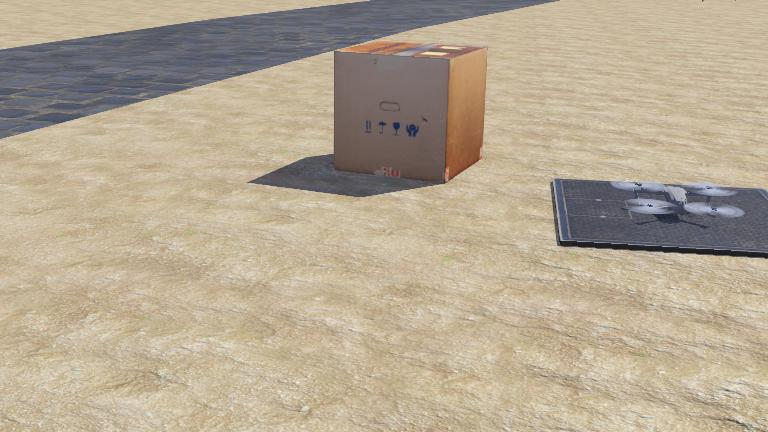
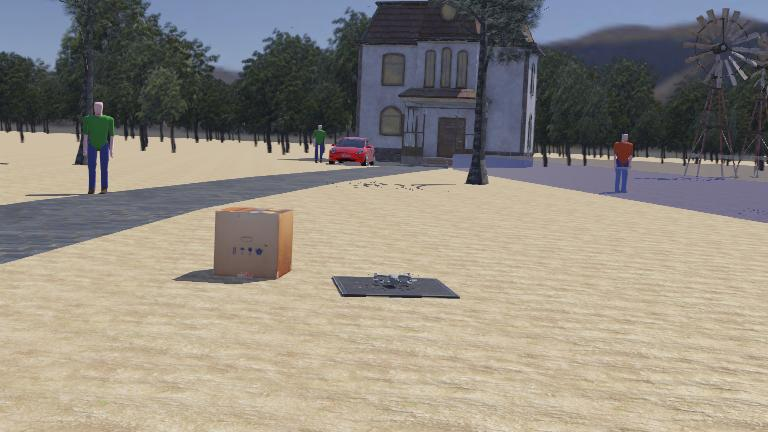
feat(core): Add object detections for users and cars

diff --git a/backend/app/main.py b/backend/app/main.py
@@ -7,6 +7,8 @@ import io
 import json
 import os
 import time
+import cv2
+import numpy as np
 
 from dotenv import load_dotenv
 from typing import Any, Dict, Optional, Set
@@ -25,6 +27,23 @@ try:
     AIORTC_AVAILABLE = True
 except Exception:
     AIORTC_AVAILABLE = False
+
+from pathlib import Path
+from ultralytics import YOLO
+
+# 1. Dynamically get the absolute folder path of app/main.py
+SCRIPT_DIR = Path(__file__).resolve().parent
+
+MODEL_PATH = SCRIPT_DIR / "yolo26n.pt"
+
+
+# Load YOLO globally once when FastAPI initializes (using Nano for real-time speed)
+try:
+    yolo_model = YOLO(str(MODEL_PATH))
+except Exception as e:
+    print(f"Warning: Could not load YOLO model: {e}")
+    yolo_model = None
+
 
 load_dotenv()
 
@@ -229,6 +248,43 @@ async def drone_controller(ws: WebSocket) -> None:
                     frame = base64.b64decode(frame_b64)
                 except Exception:
                     continue
+                
+                # --- LIVE INJECT YOLO PROCESSING ---
+                if yolo_model is not None:
+                    try:
+                        # 1. Convert JPEG byte string into a NumPy Matrix (OpenCV format)
+                        nparr = np.frombuffer(frame, np.uint8)
+                        cv_img = cv2.imdecode(nparr, cv2.IMREAD_COLOR)
+
+                        if cv_img is not None:
+                            # 2. Run inference (classes=0 filters for pedestrians only)
+                            results = yolo_model.predict(source=cv_img, classes=[0,2], conf=0.45, verbose=False)
+                            
+                            # 3. Draw bounding boxes over the image matrix
+                            for result in results:
+                                names = result.names
+                                for box in result.boxes:
+                                    x1, y1, x2, y2 = map(int, box.xyxy[0].tolist())
+                                    conf = float(box.conf)
+                                    cls_id = int(box.cls.item())
+                                    label = names[cls_id].capitalize() # e.g., "Person", "Car", "Truck"
+                                    
+                                    # Set box color based on classification (Green for People, Blue for Vehicles)
+                                    box_color = (0, 255, 0) if cls_id == 0 else (255, 100, 0)
+                                    
+                                    # Draw bounding box and the detected type label
+                                    cv2.rectangle(cv_img, (x1, y1), (x2, y2), box_color, 2)
+                                    cv2.putText(cv_img, f"{label} {conf:.2f}", (x1, y1 - 10),
+                                                cv2.FONT_HERSHEY_SIMPLEX, 0.5, box_color, 2)
+                            
+                            # 4. Re-compress the annotated matrix back into standard JPEG bytes
+                            _, encoded_img = cv2.imencode('.jpg', cv_img)
+                            frame = encoded_img.tobytes()
+                    except Exception as img_err:
+                        # Fallback to saving raw frames if image manipulation fails
+                        print(f"YOLO Processing failed, bypassing: {img_err}")
+                # -----------------------------------
+
                 async with state.camera_lock:
                     state.camera_frame = frame
                     state.camera_ts = payload.get("timestamp", time.time())